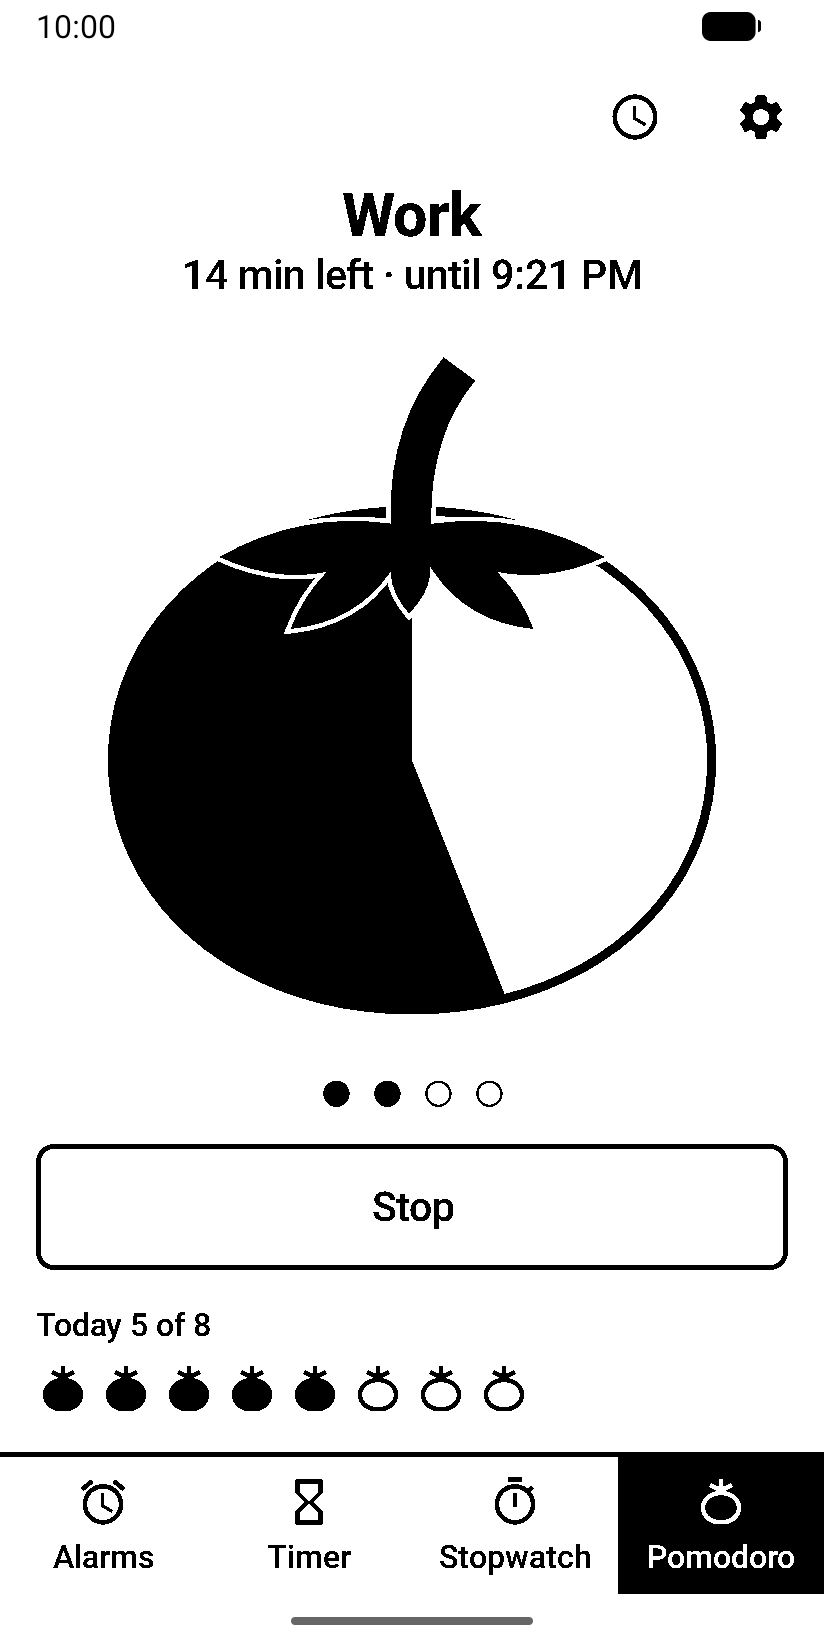
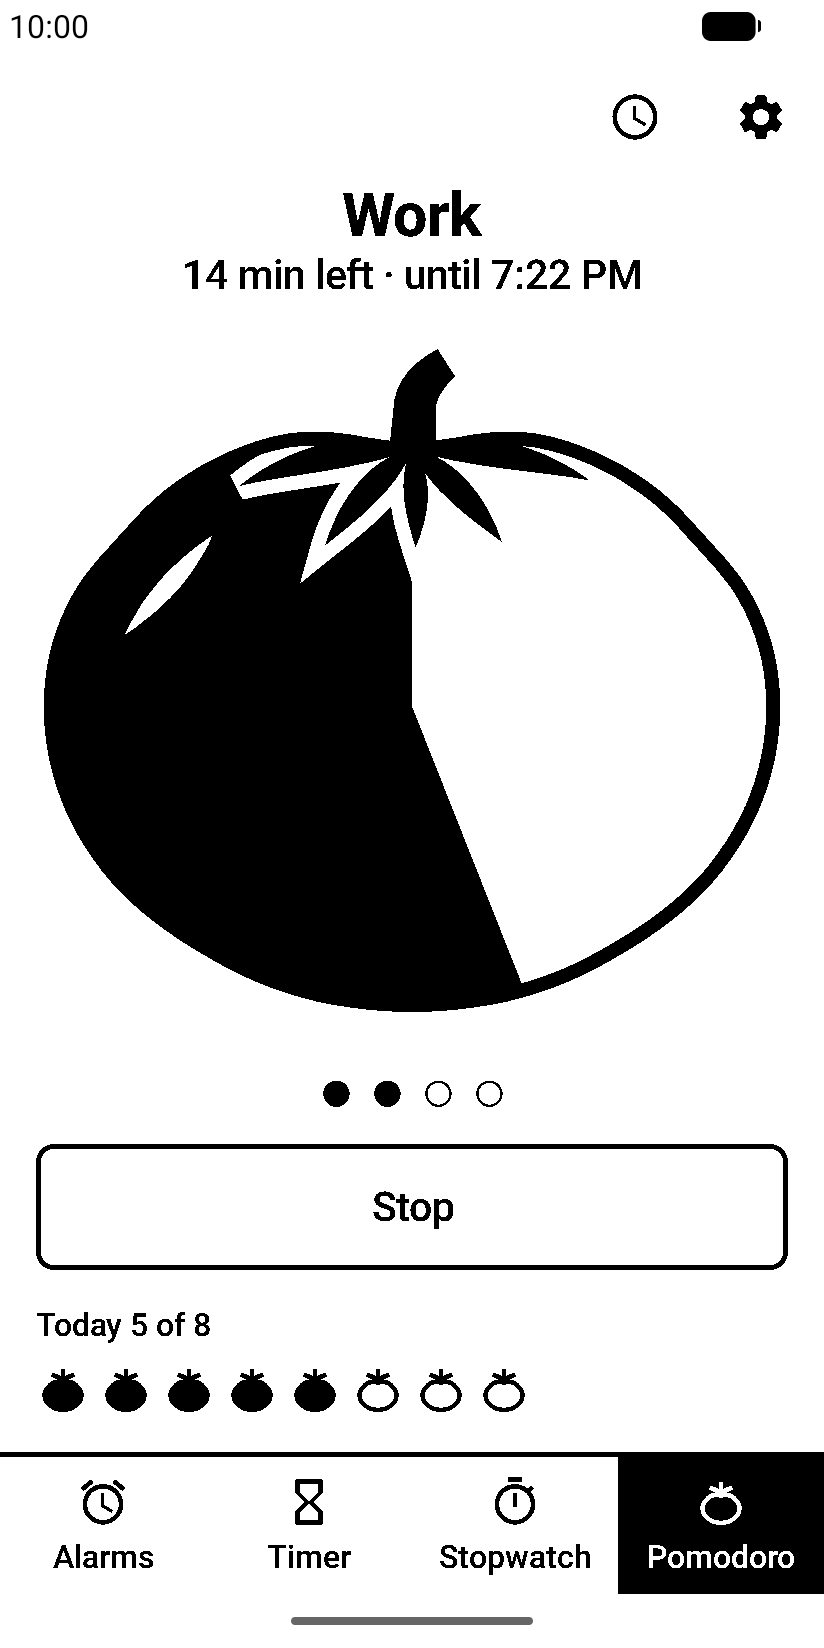
Redraw the pomodoro tomato with ribbed body, flat calyx and inverting highlight

diff --git a/ink-clock/src/main/java/io/github/andreygladkov/inkclock/pomodoro/TomatoView.kt b/ink-clock/src/main/java/io/github/andreygladkov/inkclock/pomodoro/TomatoView.kt
@@ -15,27 +15,43 @@ import kotlin.math.roundToInt
 
 /**
  * The tomato of res/values/tomato.xml drawn large, with the dial's black sector inside the body. The leaves lie over
- * the body with a background-coloured edge, so they stay visible on both the black and the eaten part.
+ * the body with a background-coloured edge, so they stay visible on both the black and the eaten part; the
+ * highlight inverts whatever lies under it for the same reason.
  */
 class TomatoView(context: Context) : View(context) {
     private val inkStyle = InkStyle.of(context)
     private val outlinePx = (InkStyle.LINE_DP * OUTLINE_LINES * resources.displayMetrics.density).roundToInt().coerceAtLeast(1).toFloat()
-    private val fill = Paint().apply { isAntiAlias = false }
-    private val stroke = Paint().apply {
+    private val ink = Paint().apply {
+        isAntiAlias = false
+        color = inkStyle.foreground
+    }
+    private val paper = Paint(ink).apply { color = inkStyle.background }
+    private val outline = Paint().apply {
         isAntiAlias = false
         style = Paint.Style.STROKE
         strokeWidth = outlinePx
+        color = inkStyle.foreground
+    }
+    private val halo = Paint(outline).apply {
+        strokeWidth = outlinePx * 2
+        color = inkStyle.background
     }
     private val bodyShape = PathParser.createPathFromPathData(context.getString(R.string.tomato_body))
     private val calyxShape = PathParser.createPathFromPathData(context.getString(R.string.tomato_calyx))
+    private val highlightShape = PathParser.createPathFromPathData(context.getString(R.string.tomato_highlight))
     private val body = Path()
     private val calyx = Path()
+    private val highlight = Path()
     private val sector = RectF()
+    private val flesh = Path()
+    private val highlightOnFlesh = Path()
+    private val highlightOnEaten = Path()
 
     var dial: PomodoroDial? = null
         set(value) {
             if (field == value) return
             field = value
+            shapeFlesh()
             invalidate()
         }
 
@@ -50,34 +66,51 @@ class TomatoView(context: Context) : View(context) {
         body.transform(matrix)
         calyx.set(calyxShape)
         calyx.transform(matrix)
+        highlight.set(highlightShape)
+        highlight.transform(matrix)
         val center = floatArrayOf(CENTER_X, CENTER_Y).also(matrix::mapPoints)
         val radius = RADIUS * scale
         sector.set(center[0] - radius, center[1] - radius, center[0] + radius, center[1] + radius)
+        shapeFlesh()
+    }
+
+    private fun shapeFlesh() {
+        val dial = dial ?: return
+        flesh.reset()
+        when {
+            dial.black >= dial.minutes -> flesh.addOval(sector, Path.Direction.CW)
+            dial.black > 0 -> {
+                flesh.moveTo(sector.centerX(), sector.centerY())
+                flesh.arcTo(sector, dial.startDegrees, dial.sweepDegrees)
+                flesh.close()
+            }
+        }
+        highlightOnFlesh.op(highlight, flesh, Path.Op.INTERSECT)
+        highlightOnEaten.op(highlight, flesh, Path.Op.DIFFERENCE)
     }
 
     override fun onDraw(canvas: Canvas) {
-        val dial = dial ?: return
-        stroke.color = inkStyle.foreground
-        fill.color = inkStyle.foreground
+        if (dial == null) return
         canvas.save()
         canvas.clipPath(body)
         canvas.drawColor(inkStyle.background)
-        if (dial.black > 0) canvas.drawArc(sector, dial.startDegrees, dial.sweepDegrees, true, fill)
+        canvas.drawPath(flesh, ink)
         canvas.restore()
-        canvas.drawPath(body, stroke)
-        stroke.color = inkStyle.background
-        canvas.drawPath(calyx, stroke)
-        canvas.drawPath(calyx, fill)
+        canvas.drawPath(highlightOnFlesh, paper)
+        canvas.drawPath(highlightOnEaten, ink)
+        canvas.drawPath(calyx, halo)
+        canvas.drawPath(body, outline)
+        canvas.drawPath(calyx, ink)
     }
 
     private companion object {
-        const val OUTLINE_LINES = 2
-        const val LEFT = 3f
-        const val TOP = 2f
-        const val UNITS_WIDE = 18f
-        const val UNITS_TALL = 20f
+        const val OUTLINE_LINES = 3
+        const val LEFT = 2.8f
+        const val TOP = 5.6f
+        const val UNITS_WIDE = 18.4f
+        const val UNITS_TALL = 16.7f
         const val CENTER_X = 12f
-        const val CENTER_Y = 14.5f
+        const val CENTER_Y = 14.7f
         const val RADIUS = 12f
     }
 }

diff --git a/ink-clock/src/test/java/io/github/andreygladkov/inkclock/pomodoro/TomatoViewTest.kt b/ink-clock/src/test/java/io/github/andreygladkov/inkclock/pomodoro/TomatoViewTest.kt
@@ -1,0 +1,75 @@
+package io.github.andreygladkov.inkclock.pomodoro
+
+import android.content.Context
+import android.graphics.Bitmap
+import android.graphics.Color
+import androidx.test.core.app.ApplicationProvider
+import io.github.andreygladkov.ink.A9_QUALIFIERS
+import io.github.andreygladkov.ink.assertPureBlackAndWhite
+import io.github.andreygladkov.ink.pixels
+import io.github.andreygladkov.ink.render
+import org.junit.runner.RunWith
+import org.robolectric.RobolectricTestRunner
+import org.robolectric.annotation.Config
+import org.robolectric.annotation.GraphicsMode
+import kotlin.math.roundToInt
+import kotlin.test.Test
+import kotlin.test.assertEquals
+
+@RunWith(RobolectricTestRunner::class)
+@GraphicsMode(GraphicsMode.Mode.NATIVE)
+@Config(qualifiers = A9_QUALIFIERS)
+class TomatoViewTest {
+    private val context = ApplicationProvider.getApplicationContext<Context>()
+
+    @Test fun theHighlightStaysVisibleOnBlackAndOnEatenFlesh() {
+        val whole = draw(PomodoroDial(25, black = 25, refills = false))
+        val eaten = draw(PomodoroDial(25, black = 0, refills = false))
+        assertPureBlackAndWhite(whole)
+        assertPureBlackAndWhite(eaten)
+        val art = ArtFrame(eaten)
+        assertEquals(Color.WHITE, art.pixel(whole, HIGHLIGHT_X, HIGHLIGHT_Y))
+        assertEquals(Color.BLACK, art.pixel(eaten, HIGHLIGHT_X, HIGHLIGHT_Y))
+        assertEquals(Color.BLACK, art.pixel(whole, FLESH_X, FLESH_Y))
+        assertEquals(Color.WHITE, art.pixel(eaten, FLESH_X, FLESH_Y))
+    }
+
+    private fun draw(dial: PomodoroDial): Bitmap {
+        val view = TomatoView(context).apply {
+            setBackgroundColor(Color.WHITE)
+            this.dial = dial
+        }
+        return render(view, WIDTH, HEIGHT)
+    }
+
+    /** Maps tomato.xml units to pixels from the black extent of a drawing: the body spans x 2.8–21.2, the stem tops out at y 5.6. */
+    private class ArtFrame(drawing: Bitmap) {
+        private val left: Int
+        private val top: Int
+        private val scale: Float
+
+        init {
+            val pixels = drawing.pixels()
+            val black = pixels.indices.filter { pixels[it] == Color.BLACK }
+            val xs = black.map { it % drawing.width }
+            left = xs.min()
+            top = black.minOf { it / drawing.width }
+            scale = (xs.max() - left) / (BODY_RIGHT - BODY_LEFT)
+        }
+
+        fun pixel(bitmap: Bitmap, unitX: Float, unitY: Float) =
+            bitmap.getPixel(left + ((unitX - BODY_LEFT) * scale).roundToInt(), top + ((unitY - STEM_TOP) * scale).roundToInt())
+    }
+
+    private companion object {
+        const val WIDTH = 740
+        const val HEIGHT = 700
+        const val BODY_LEFT = 2.8f
+        const val BODY_RIGHT = 21.2f
+        const val STEM_TOP = 5.6f
+        const val HIGHLIGHT_X = 5.8f
+        const val HIGHLIGHT_Y = 11.6f
+        const val FLESH_X = 12f
+        const val FLESH_Y = 17f
+    }
+}
